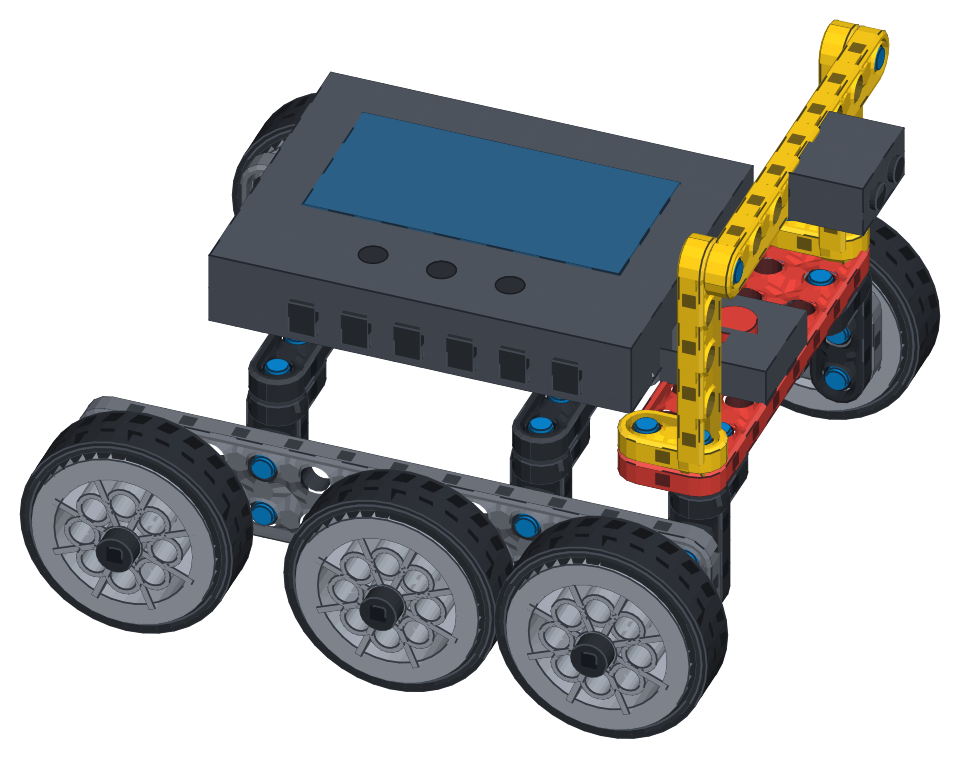
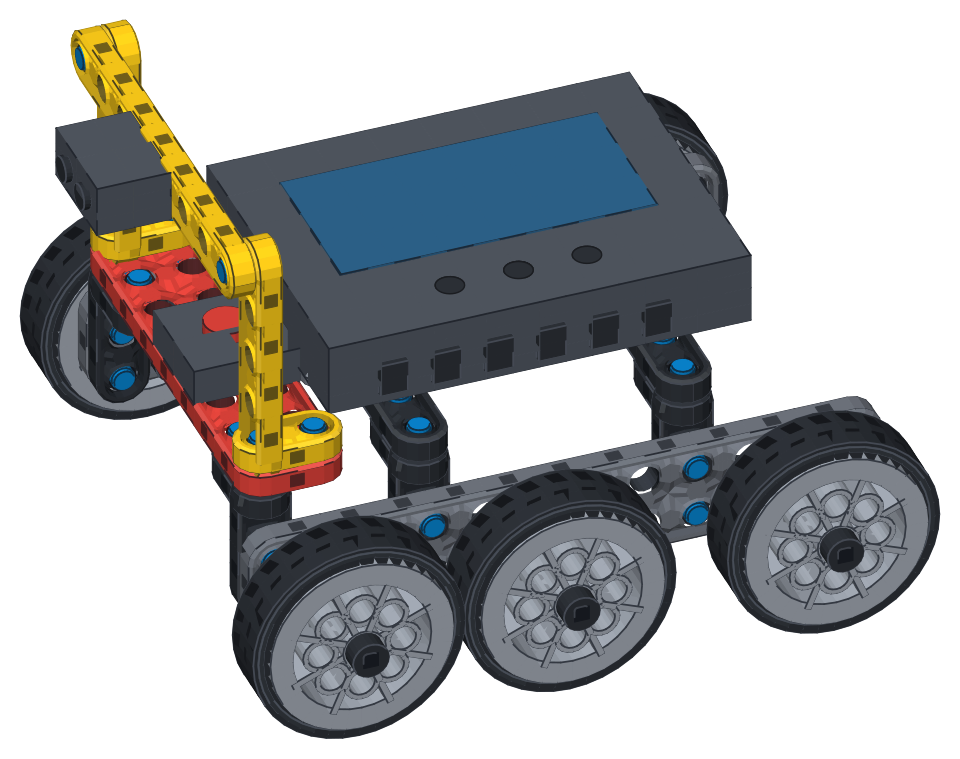
Draw the model as it is, not its mirror image
project() put +x to the lower right, which is the reflection of what the
(1, 1, 1) camera that depth sorting and culling assume actually sees. It
now puts +x to the lower left and +y to the lower right; every drawing is
the old one flipped left to right. A test checks that screen right, up
and toward-camera form a right-handed frame, which the old projection
fails.

Follow-on fixes:
- views.look() builds its camera frame the same way; the top view now
  reads like a map (+x right, +y up), and side views see what a camera on
  that side sees
- the turn banner names the way the near side moves, which the mirror
  had reversed
- the chassis copies were named left/right the wrong way round for a
  robot facing -x
- the README's showcase image is regenerated

diff --git a/examples/_modules.py b/examples/_modules.py
@@ -107,18 +107,18 @@ def add_chassis(b, first_section="One side frame", brain=True):
         "Build this once. You will build a second one just like it, the "
         "other way round.",
     )
-    left = b.place(side_frame, at=(0, RAIL_Y, 0))
+    right = b.place(side_frame, at=(0, RAIL_Y, 0))
 
     b.section(
         "The other side frame",
         "The same steps again. The wheels still go on the outside - which is "
         "now the other way round.",
     )
-    right = b.place(side_frame, at=(0, 0, 0), mirror="y",
-                    note="Build a second side frame exactly like the first, and set "
-                         "it down mirrored - wheels facing out.",
-                    caption="Hold them side by side. They should look like a "
-                            "pair of hands, not like two left hands.")
+    left = b.place(side_frame, at=(0, 0, 0), mirror="y",
+                   note="Build a second side frame exactly like the first, "
+                        "and set it down mirrored - wheels facing out.",
+                   caption="Hold them side by side. They should look like a "
+                           "pair of hands, not like two left hands.")
 
     b.section("Joining the two sides",
               "This is what turns two rails into a robot.")
@@ -126,7 +126,7 @@ def add_chassis(b, first_section="One side frame", brain=True):
     # Each pair of brackets facing each other across the chassis, front and
     # back, where the two copies of the side frame put them.  A cross beam
     # rests on a pair's feet and pins down through both holes of each foot.
-    pairs = [(right(br), left(br)) for br in brackets]
+    pairs = [(left(br), right(br)) for br in brackets]
 
     def feet(pair):
         return [br.hole(i, side="up") for br in pair for i in (0, 1)]
@@ -157,4 +157,4 @@ def add_chassis(b, first_section="One side frame", brain=True):
                     caption="It should sit flat. If it rocks, a pin "
                             "underneath is not pushed all the way home.") as s:
             s.add("brain", (2, 0.5, 0), on=cross, arrow=True)
-    return SimpleNamespace(rails=(right(rail), left(rail)), cross=cross)
+    return SimpleNamespace(rails=(left(rail), right(rail)), cross=cross)

diff --git a/tests/test_geom.py b/tests/test_geom.py
@@ -6,9 +6,9 @@ import unittest
 import support  # noqa: F401  (puts iqdraw on the path)
 
 from iqdraw.geom import (
-    IDENTITY, PITCH_MM, Transform, box, centroid, euler, extrude, fade,
-    hex_to_rgb, mat_apply, mix_color, polygon_normal, project, rgb_to_hex,
-    rot_z, scale_color, vadd, vcross, vdot, vlen, vnorm, vsub,
+    IDENTITY, PITCH_MM, Transform, box, centroid, depth, det, euler, extrude,
+    fade, hex_to_rgb, mat_apply, mix_color, polygon_normal, project,
+    rgb_to_hex, rot_z, scale_color, vadd, vcross, vdot, vlen, vnorm, vsub,
 )
 
 
@@ -71,8 +71,18 @@ class TestProjection(unittest.TestCase):
         self.assertLess(project((0, 0, 1))[1], project((0, 0, 0))[1])
 
     def test_x_and_y_separate_horizontally(self):
-        self.assertGreater(project((1, 0, 0))[0], 0)
-        self.assertLess(project((0, 1, 0))[0], 0)
+        # A camera out at (1, 1, 1) looking back: +x to the left, +y right.
+        self.assertLess(project((1, 0, 0))[0], 0)
+        self.assertGreater(project((0, 1, 0))[0], 0)
+
+    def test_the_drawing_is_not_a_mirror_image(self):
+        # Screen right, screen up and toward the camera have to be a
+        # right-handed frame, as they are for any real camera.  A projection
+        # that draws the reflection of the model fails this whatever its
+        # angles, and every handed part in it comes out the wrong hand.
+        cols = [(project(e)[0], -project(e)[1], depth(e))
+                for e in ((1, 0, 0), (0, 1, 0), (0, 0, 1))]
+        self.assertGreater(det(tuple(zip(*cols))), 0)
 
     def test_isometric_axes_are_equally_foreshortened(self):
         origin = project((0, 0, 0))

diff --git a/tests/test_views.py b/tests/test_views.py
@@ -8,7 +8,7 @@ import unittest
 import support  # noqa: F401  (makes the checkout importable)
 
 from iqdraw import Build
-from iqdraw.geom import det, mat_apply
+from iqdraw.geom import det, mat_apply, project
 from iqdraw.views import VIEWS, look, sheet_svg, view_svg
 
 
@@ -33,6 +33,21 @@ class TestLook(unittest.TestCase):
                 # The camera sits on (1, 1, 1); `toward` has to land there.
                 for v in mat_apply(r, toward):
                     self.assertAlmostEqual(v, 3 ** -0.5)
+
+    def _screen(self, name, axis):
+        toward, up, _ = VIEWS[name]
+        return project(mat_apply(look(toward, up), axis))
+
+    def test_the_top_view_reads_like_a_map(self):
+        # +x to the right, +y up the page - as seen from above, not a mirror.
+        x, y = self._screen("top", (1, 0, 0)), self._screen("top", (0, 1, 0))
+        self.assertGreater(x[0], 0.5)
+        self.assertLess(y[1], -0.5)
+
+    def test_side_views_see_what_a_camera_on_that_side_sees(self):
+        # From -y with +z up, +x is on the right; from -x, +y is on the left.
+        self.assertGreater(self._screen("yminus", (1, 0, 0))[0], 0.5)
+        self.assertLess(self._screen("xminus", (0, 1, 0))[0], -0.5)
 
 
 class TestViews(unittest.TestCase):

diff --git a/views.py b/views.py
@@ -29,7 +29,7 @@ from .render import RenderOpts, _xml_escape, bounds, render, visible, \
 
 # The renderer's own camera frame: screen right, screen up, and toward the
 # camera, as `geom.project` and `geom.depth` define them.
-_RIGHT = vnorm((1.0, -1.0, 0.0))
+_RIGHT = vnorm((-1.0, 1.0, 0.0))
 _UP = vnorm((-1.0, -1.0, 2.0))
 _TOWARD = vnorm((1.0, 1.0, 1.0))
 
@@ -41,15 +41,15 @@ def look(toward, up):
     """
     d = vnorm(toward)
     u = vnorm(tuple(a - b * vdot(up, d) for a, b in zip(up, d)))
-    r = vcross(d, u)
+    r = vcross(u, d)
     return tuple(tuple(_RIGHT[i] * r[j] + _UP[i] * u[j] + _TOWARD[i] * d[j]
                        for j in range(3)) for i in range(3))
 
 
 # name: (camera side, page up, description).  Side views keep +z up the page.
 VIEWS = {
-    "top": ((0, 0, 1), (0, -1, 0), "from above, looking down"),
-    "bottom": ((0, 0, -1), (0, 1, 0), "from below, looking up"),
+    "top": ((0, 0, 1), (0, 1, 0), "from above, looking down"),
+    "bottom": ((0, 0, -1), (0, -1, 0), "from below, looking up"),
     "xminus": ((-1, 0, 0), (0, 0, 1), "from the -x side"),
     "xplus": ((1, 0, 0), (0, 0, 1), "from the +x side"),
     "yminus": ((0, -1, 0), (0, 0, 1), "from the -y side"),

diff --git a/tests/test_booklet.py b/tests/test_booklet.py
@@ -12,6 +12,7 @@ from html.parser import HTMLParser
 import support
 
 from iqdraw import Build, booklet, parts
+from iqdraw.geom import mat_apply, project, rot_z
 
 
 def _sample(done="both gears turn together"):
@@ -134,6 +135,17 @@ class TestOrientation(unittest.TestCase):
 
     def test_every_step_has_something_to_tick(self):
         self.assertEqual(self.html.count('type="checkbox"'), 3)
+
+    def test_the_turn_banner_names_the_way_the_near_side_moves(self):
+        b = Build("Turning")
+        b.step("flat").add("beam_1x4", (0, 0, 0))
+        b.step("turned", view_rz=90).add("pin_1x1", (0, 0, 0.25))
+        self.assertIn("Turn the model 90&deg; to the right", booklet(b))
+        # And that is what the drawing does: the corner nearest the camera,
+        # spun 90 degrees, lands further right on the page.
+        near = (1, 1, 0)
+        self.assertGreater(project(mat_apply(rot_z(90), near))[0],
+                           project(near)[0])
 
 
 class TestAccessibility(unittest.TestCase):

diff --git a/instructions.py b/instructions.py
@@ -418,7 +418,10 @@ def _steps_html(build, svgs, n_steps, styles, prev_angle):
         turn = ""
         if prev_angle is not None and abs(angle - prev_angle) > 1e-6:
             delta = (angle - prev_angle + 180) % 360 - 180
-            way = "left" if delta > 0 else "right"
+            # The way the side nearest the reader moves.  A positive angle is
+            # anticlockwise seen from above, which carries the near side to
+            # the right - in the drawing and in the reader's hands alike.
+            way = "right" if delta > 0 else "left"
             turn = (f'<p class="turn">&#8635; Turn the model '
                     f"{abs(delta):g}&deg; to the {way}</p>")
         prev_angle = angle

diff --git a/geom.py b/geom.py
@@ -175,9 +175,16 @@ _S30 = 0.5
 
 
 def project(p):
-    """(x, y, z) in grid units -> (sx, sy) in screen units (y already flipped)."""
+    """
+    (x, y, z) in grid units -> (sx, sy) in screen units (y already flipped).
+
+    What a camera out at (1, 1, 1) sees, looking back at the origin with +z
+    up: +y runs to the lower right, +x to the lower left.  `depth`, `VIEW`
+    and the culling are all from that same camera, so the drawing is the
+    model as it is, not its mirror image.
+    """
     x, y, z = p
-    return ((x - y) * _C30, (x + y) * _S30 - z)
+    return ((y - x) * _C30, (x + y) * _S30 - z)
 
 
 def depth(p):

diff --git a/README.md b/README.md
@@ -182,7 +182,8 @@ The CLI renders the first `Build` it finds at module level.
 - a **parts callout** listing only what this step needs, with counts
 - **insertion arrows**, where you ask for them (see `arrow` below)
 - a **"turn the model 90° to the left"** banner whenever the camera angle
-  changes, so a reader never mistakes a new viewpoint for a changed build
+  changes, so a reader never mistakes a new viewpoint for a changed build.
+  Left and right are the way the side nearest the reader moves
 - a **done checkbox** with a cover progress bar; browsers remember completed
   steps locally when storage is available, and the cover can reset them
 - one frame shared by every step, sized to the finished model, so the build
@@ -765,13 +766,6 @@ than a flag because it should be a considered decision, not a per-render one.
 **One camera angle in the booklet.** Every step is drawn from the same
 isometric viewpoint; `view_rz` spins the model but cannot look from
 underneath. `--views` can, but only of the finished model, for checking.
-
-**The drawings are mirror images.** The projection puts `+x` to the lower
-right and `+y` to the lower left, which is the reflection of what a camera on
-the `(+1,+1,+1)` diagonal would see. Booklets and views agree with each other,
-and the included parts are near enough symmetric that it rarely shows, but a
-handed part is drawn as its mirror twin, and "left" and "right" in a step's
-words can disagree with the picture.
 
 ---
 

diff --git a/AGENTS.md b/AGENTS.md
@@ -41,6 +41,9 @@ seconds on a robot-sized build.
 - Nominal thicknesses: beam 0.5, plate 0.25, gear 0.5, spacer 0.25,
   washer 0.12, collar 0.36. Two stacked beams are 0.5 apart; the pin joining
   them is centred on their shared face.
+- The booklet's camera sits out on the `(+1, +1, +1)` corner, so with
+  `view_rz=0` `+x` is drawn to the lower left and `+y` to the lower right.
+  The top view reads like a map: `+x` right, `+y` up.
 
 ## Place against parts, not at numbers
 
@@ -114,8 +117,5 @@ part in a scratch build and print `ref.box` and `ref.hole(…).axis`, or run
 
 ## Known quirks
 
-- The drawings are mirror images: `+x` is drawn to the lower right and `+y` to
-  the lower left. Views and booklets agree with each other, but don't write
-  "left" or "right" in a step note from the coordinates alone.
 - Size names parse any number, so `beam_1x9` draws fine. Check sizes against a
   real kit.
